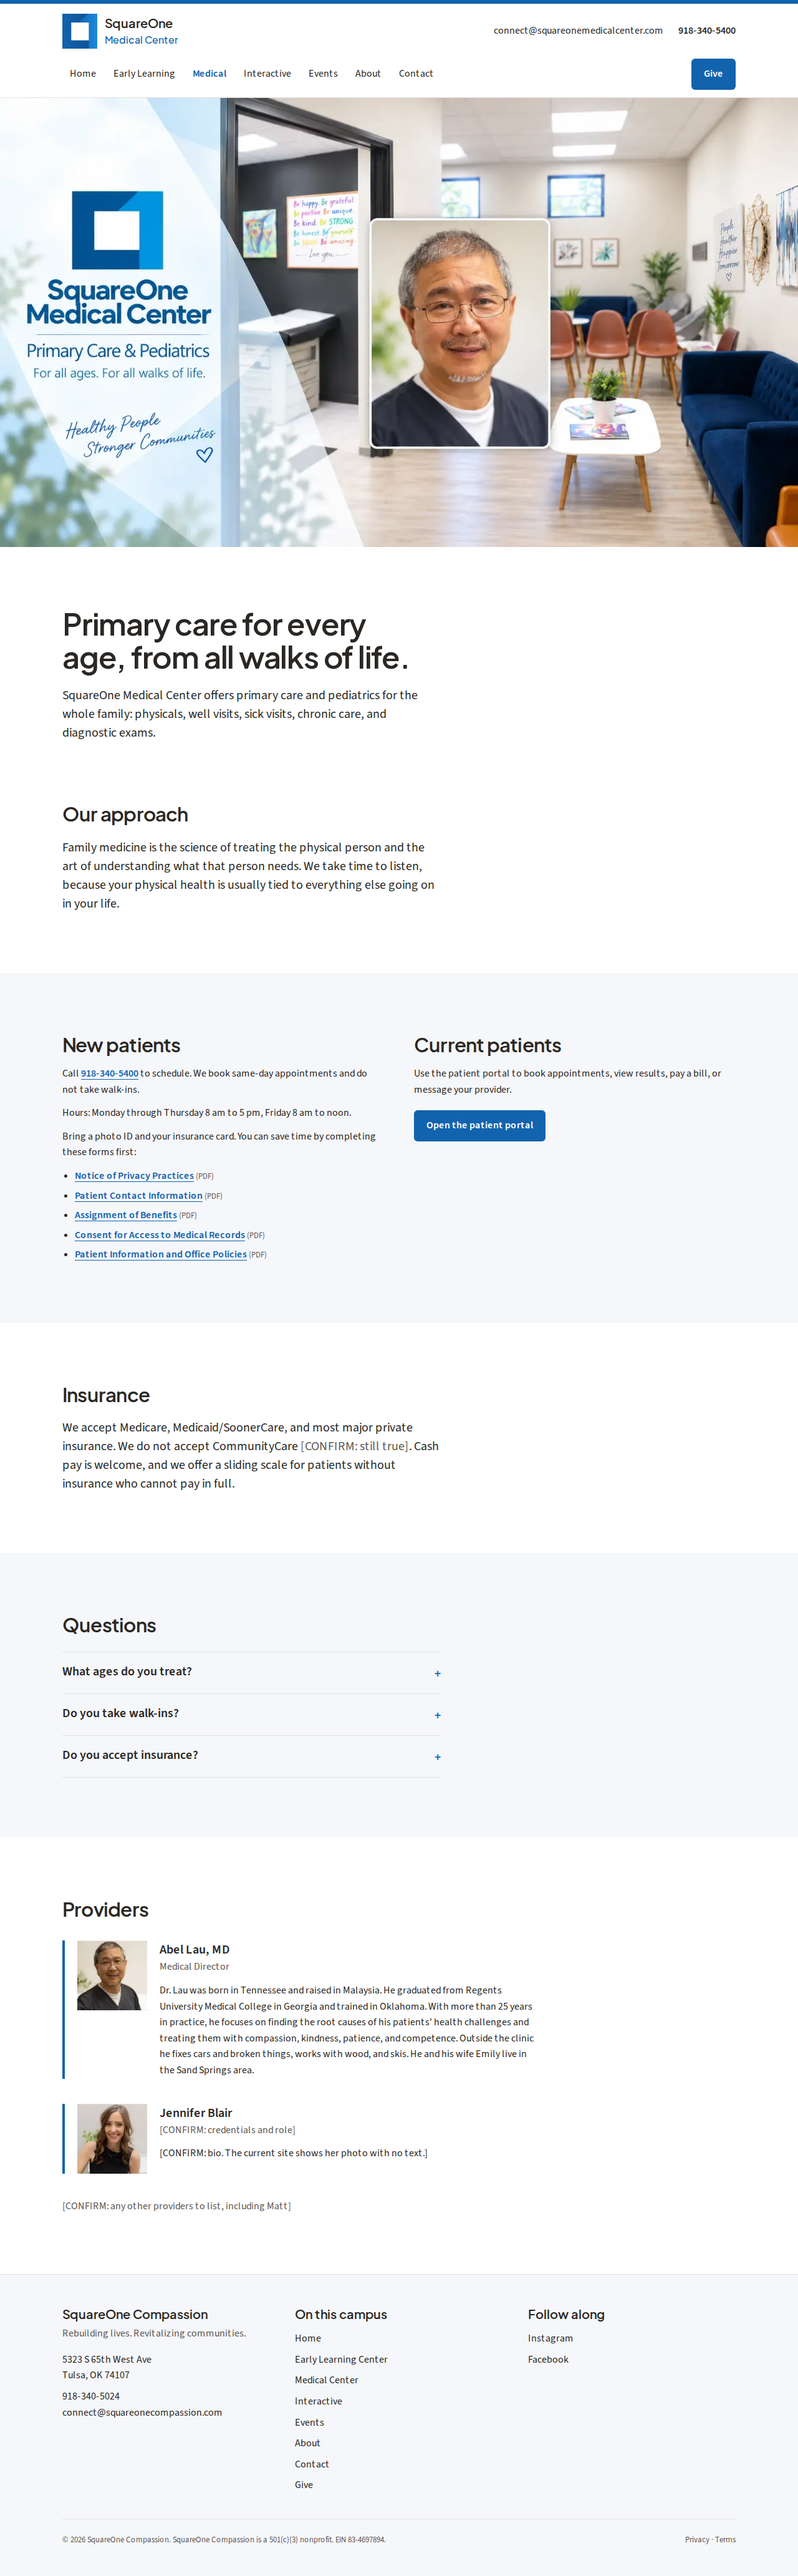
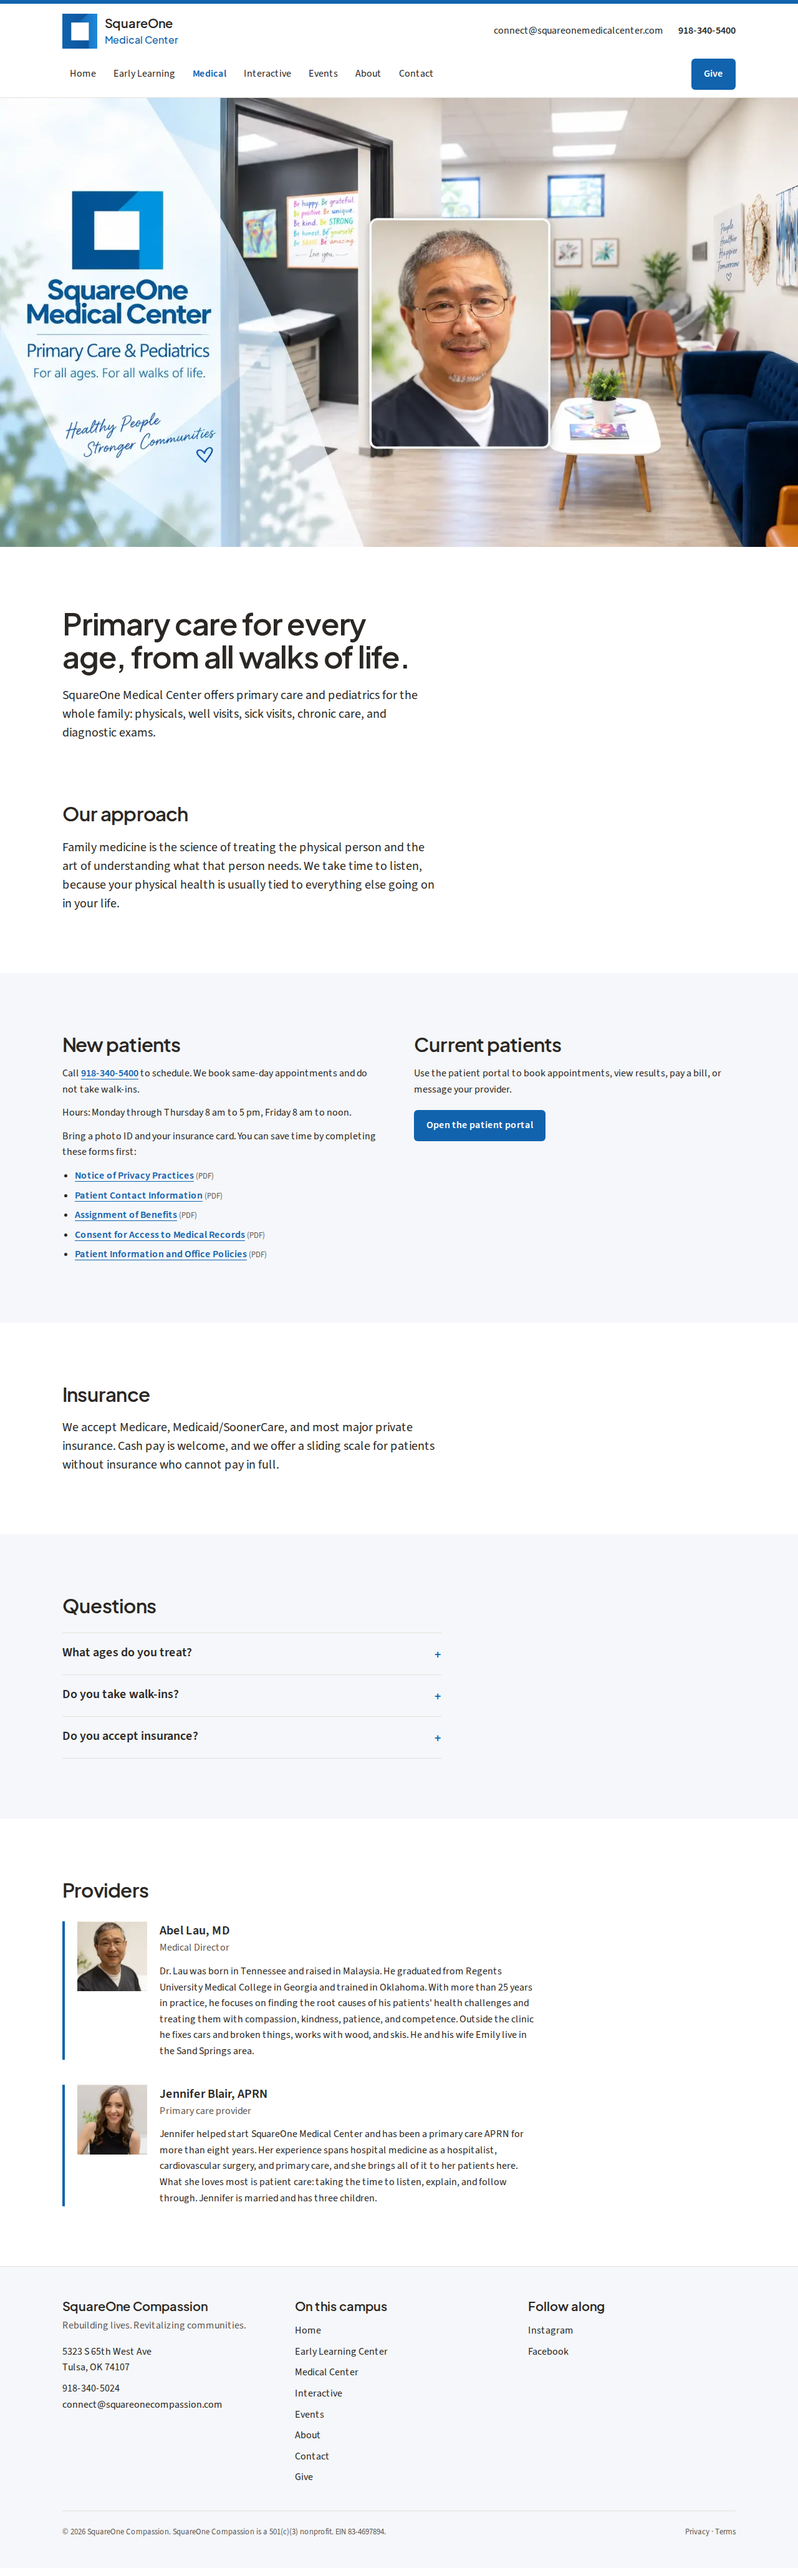
Medical page: drop the CommunityCare line, add Jennifer Blair's bio
Per Matt: the insurance paragraph no longer mentions CommunityCare, the
"other providers" placeholder is removed, and Jennifer Blair, APRN, has
a bio written from Matt's notes.

Claude-Session: https://claude.ai/code/session_01Dy1NBE1CDjARVuM4emY1ru

diff --git a/app/medical/page.tsx b/app/medical/page.tsx
@@ -3,7 +3,6 @@ import { PageIntro, Section } from '@/components/Section'
 import { FAQ } from '@/components/FAQ'
 import { StaffCard } from '@/components/StaffCard'
 import { PageBanner } from '@/components/PageBanner'
-import { Confirm } from '@/components/Confirm'
 import { telHref } from '@/lib/site'
 import { photo } from '@/lib/photos'
 import faq from '@/content/faq/medical.json'
@@ -69,7 +68,7 @@ export default function MedicalPage() {
       <Section id="insurance">
         <h2 className="text-2xl">Insurance</h2>
         <p className="prose-block mt-5 text-lg">
-          We accept Medicare, Medicaid/SoonerCare, and most major private insurance. We do not accept CommunityCare <Confirm>still true</Confirm>. Cash pay is welcome, and we offer a sliding scale for patients without insurance who cannot pay in full.
+          We accept Medicare, Medicaid/SoonerCare, and most major private insurance. Cash pay is welcome, and we offer a sliding scale for patients without insurance who cannot pay in full.
         </p>
       </Section>
 
@@ -86,10 +85,7 @@ export default function MedicalPage() {
             role="Medical Director"
             bio="Dr. Lau was born in Tennessee and raised in Malaysia. He graduated from Regents University Medical College in Georgia and trained in Oklahoma. With more than 25 years in practice, he focuses on finding the root causes of his patients' health challenges and treating them with compassion, kindness, patience, and competence. Outside the clinic he fixes cars and broken things, works with wood, and skis. He and his wife Emily live in the Sand Springs area."
           />
-          <StaffCard photo={photo('jennifer-blair')} name="Jennifer Blair" role="[CONFIRM: credentials and role]" bio="[CONFIRM: bio. The current site shows her photo with no text.]" /> {/* CONFIRM */}
-          <p className="text-muted">
-            <Confirm>any other providers to list, including Matt</Confirm>
-          </p>
+          <StaffCard photo={photo('jennifer-blair')} name="Jennifer Blair, APRN" role="Primary care provider" bio="Jennifer helped start SquareOne Medical Center and has been a primary care APRN for more than eight years. Her experience spans hospital medicine as a hospitalist, cardiovascular surgery, and primary care, and she brings all of it to her patients here. What she loves most is patient care: taking the time to listen, explain, and follow through. Jennifer is married and has three children." />
         </div>
       </Section>
     </>

diff --git a/content/COPY.md b/content/COPY.md
@@ -173,7 +173,7 @@ Use the patient portal to book appointments, view results, pay a bill, or messag
 Button: Open the patient portal → https://21321.portal.athenahealth.com/
 
 **Insurance**
-We accept Medicare, Medicaid/SoonerCare, and most major private insurance. We do not accept CommunityCare `[CONFIRM: still true]`. Cash pay is welcome, and we offer a sliding scale for patients without insurance who cannot pay in full.
+We accept Medicare, Medicaid/SoonerCare, and most major private insurance. Cash pay is welcome, and we offer a sliding scale for patients without insurance who cannot pay in full.
 
 **FAQ**
 
@@ -191,10 +191,10 @@ See Insurance above.
 *Abel Lau, MD — Medical Director*
 Dr. Lau was born in Tennessee and raised in Malaysia. He graduated from Regents University Medical College in Georgia and trained in Oklahoma. With more than 25 years in practice, he focuses on finding the root causes of his patients' health challenges and treating them with compassion, kindness, patience, and competence. Outside the clinic he fixes cars and broken things, works with wood, and skis. He and his wife Emily live in the Sand Springs area.
 
-*Jennifer Blair `[CONFIRM: credentials and role]`*
-`[CONFIRM: bio. The current site shows her photo with no text.]`
+*Jennifer Blair, APRN — Primary care provider*
+Jennifer helped start SquareOne Medical Center and has been a primary care APRN for more than eight years. Her experience spans hospital medicine as a hospitalist, cardiovascular surgery, and primary care, and she brings all of it to her patients here. What she loves most is patient care: taking the time to listen, explain, and follow through. Jennifer is married and has three children.
 
-`[CONFIRM: any other providers to list, including Matt]`
+(No other providers.)
 
 ---
 

diff --git a/CONFIRM.md b/CONFIRM.md
@@ -58,9 +58,9 @@ See `.env.example`. Without these:
 - [x] FAQ "How do I get started?" uses 918-623-4377
 
 ### Medical Center
-- [ ] "We do not accept CommunityCare": still true?
-- [ ] Jennifer Blair: credentials, role, and bio
-- [ ] Any other providers to list, including Matt
+- [x] CommunityCare line removed
+- [x] Jennifer Blair, APRN: bio written from Matt's notes
+- [x] No other providers
 
 ### Interactive
 - [ ] Final domain for the app (e.g. interactive.squareonecompassion.com)
